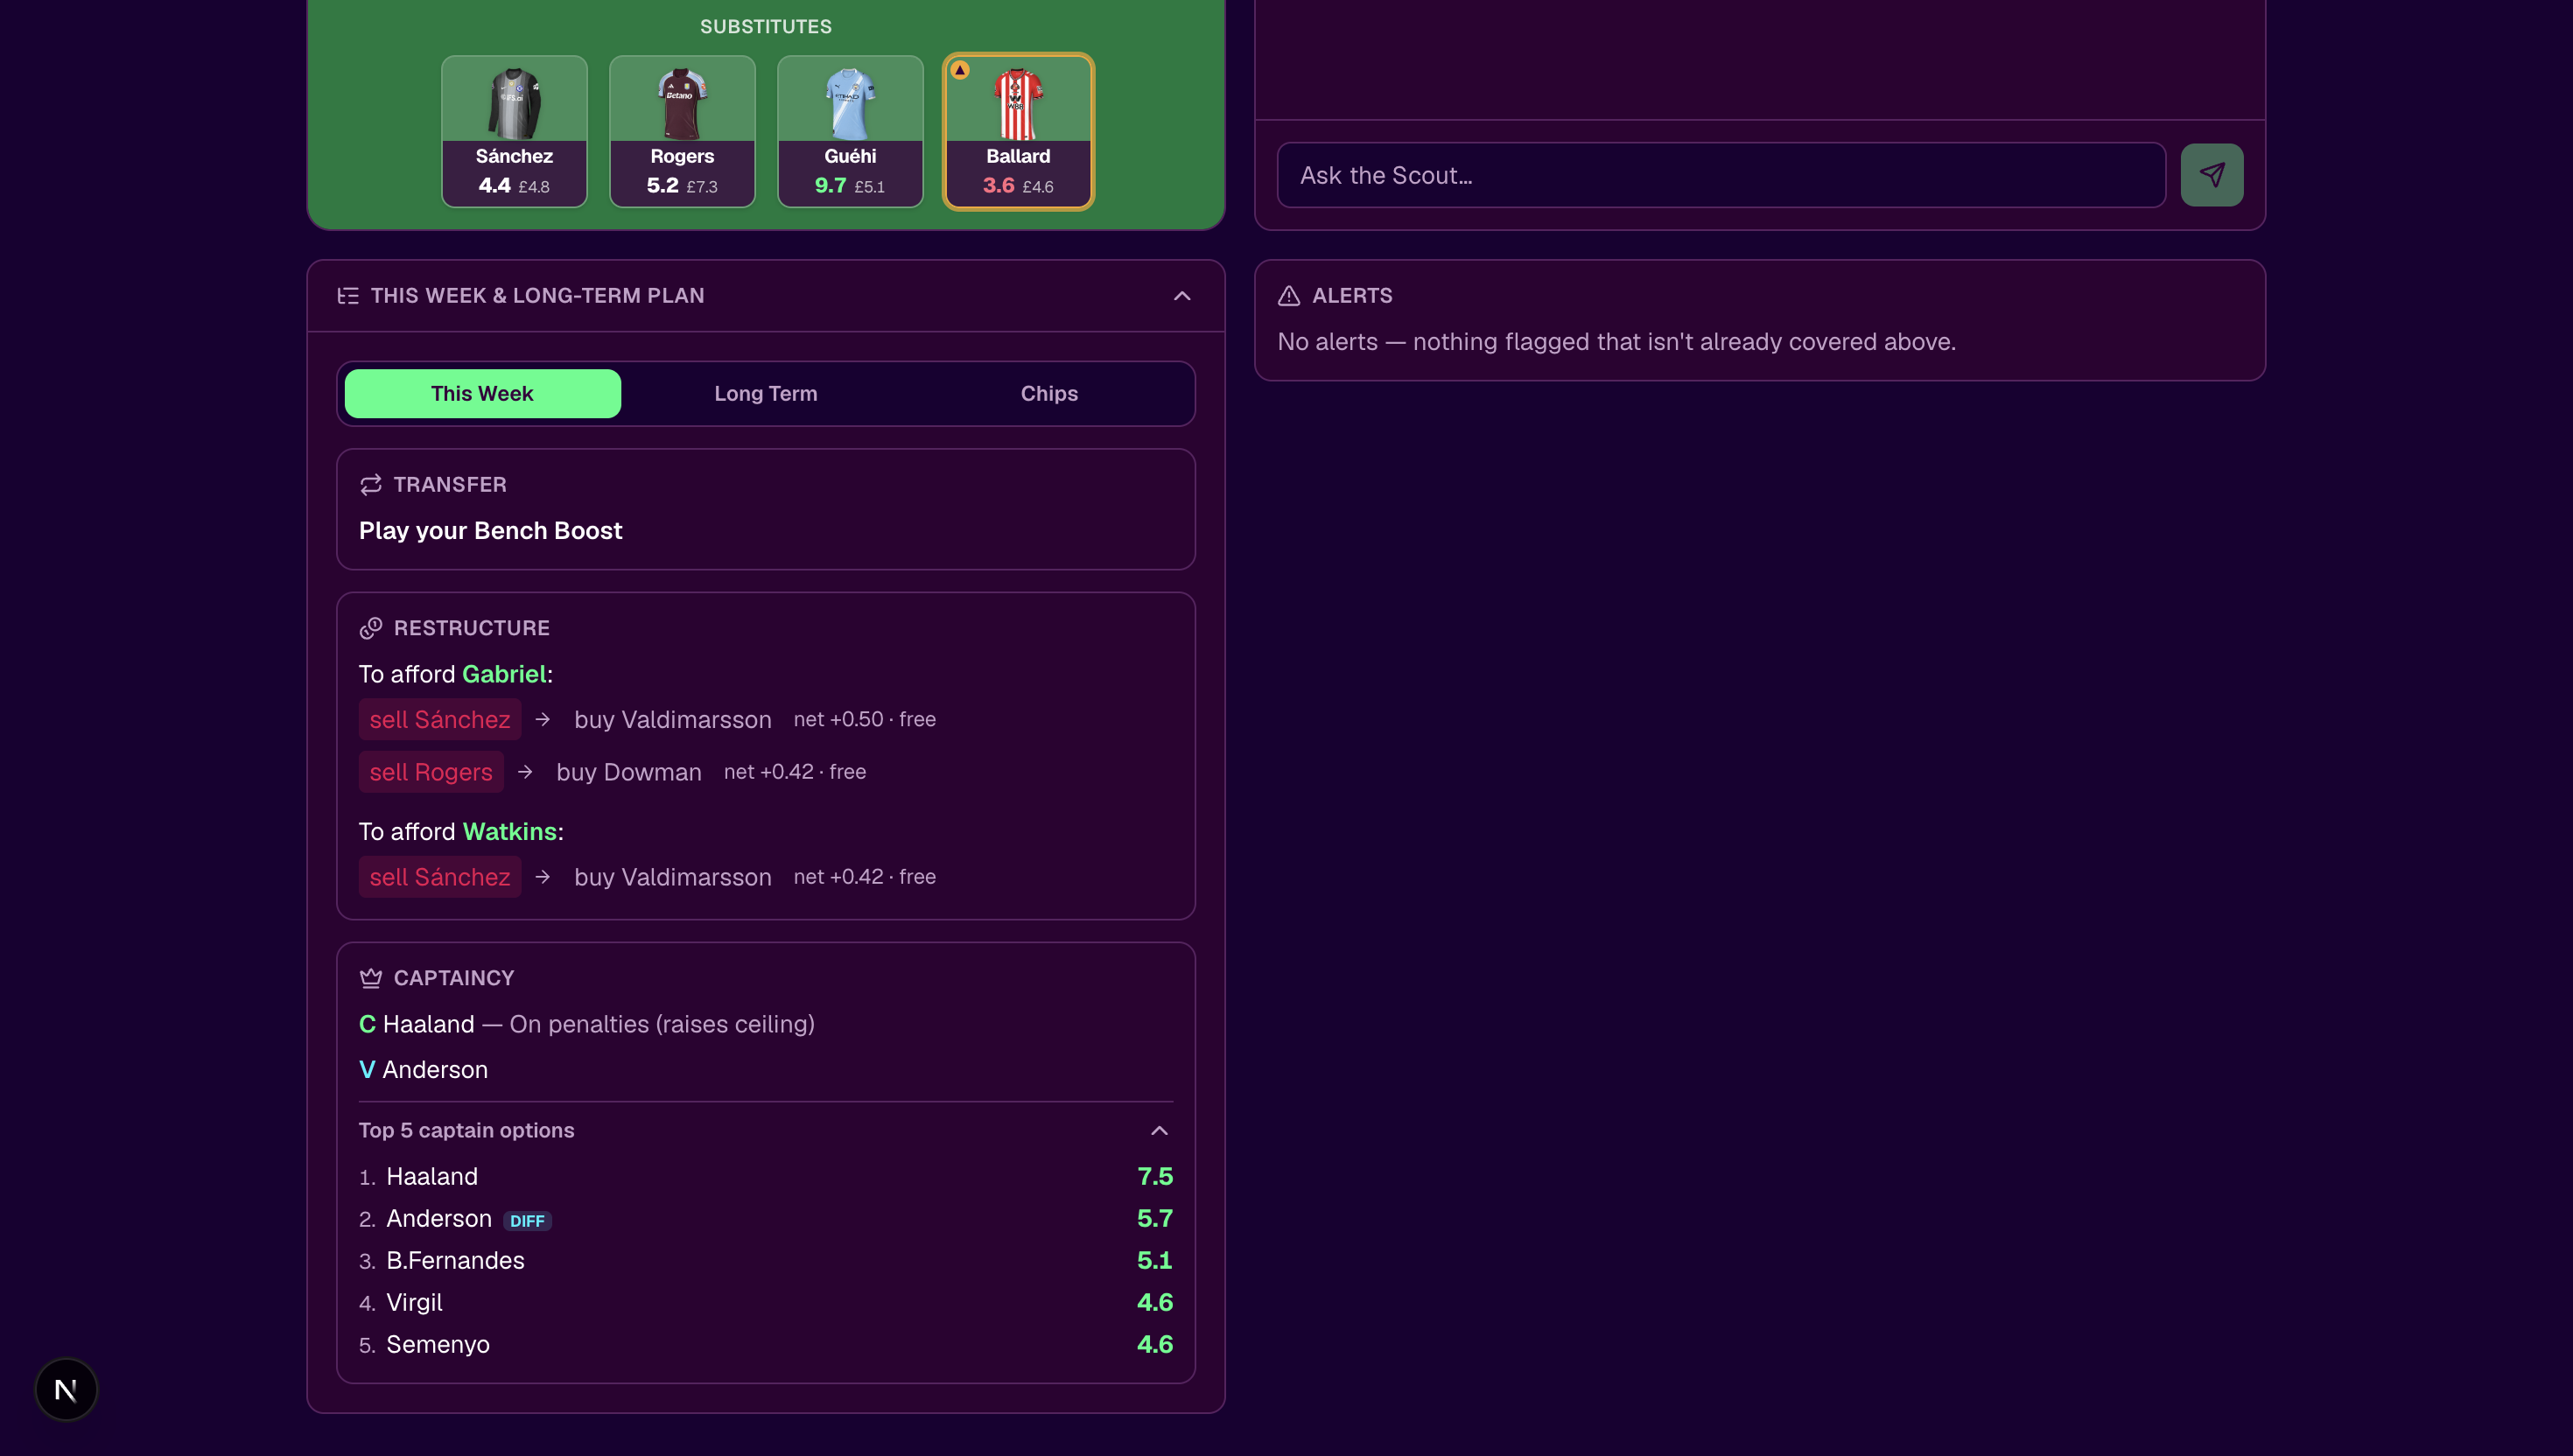
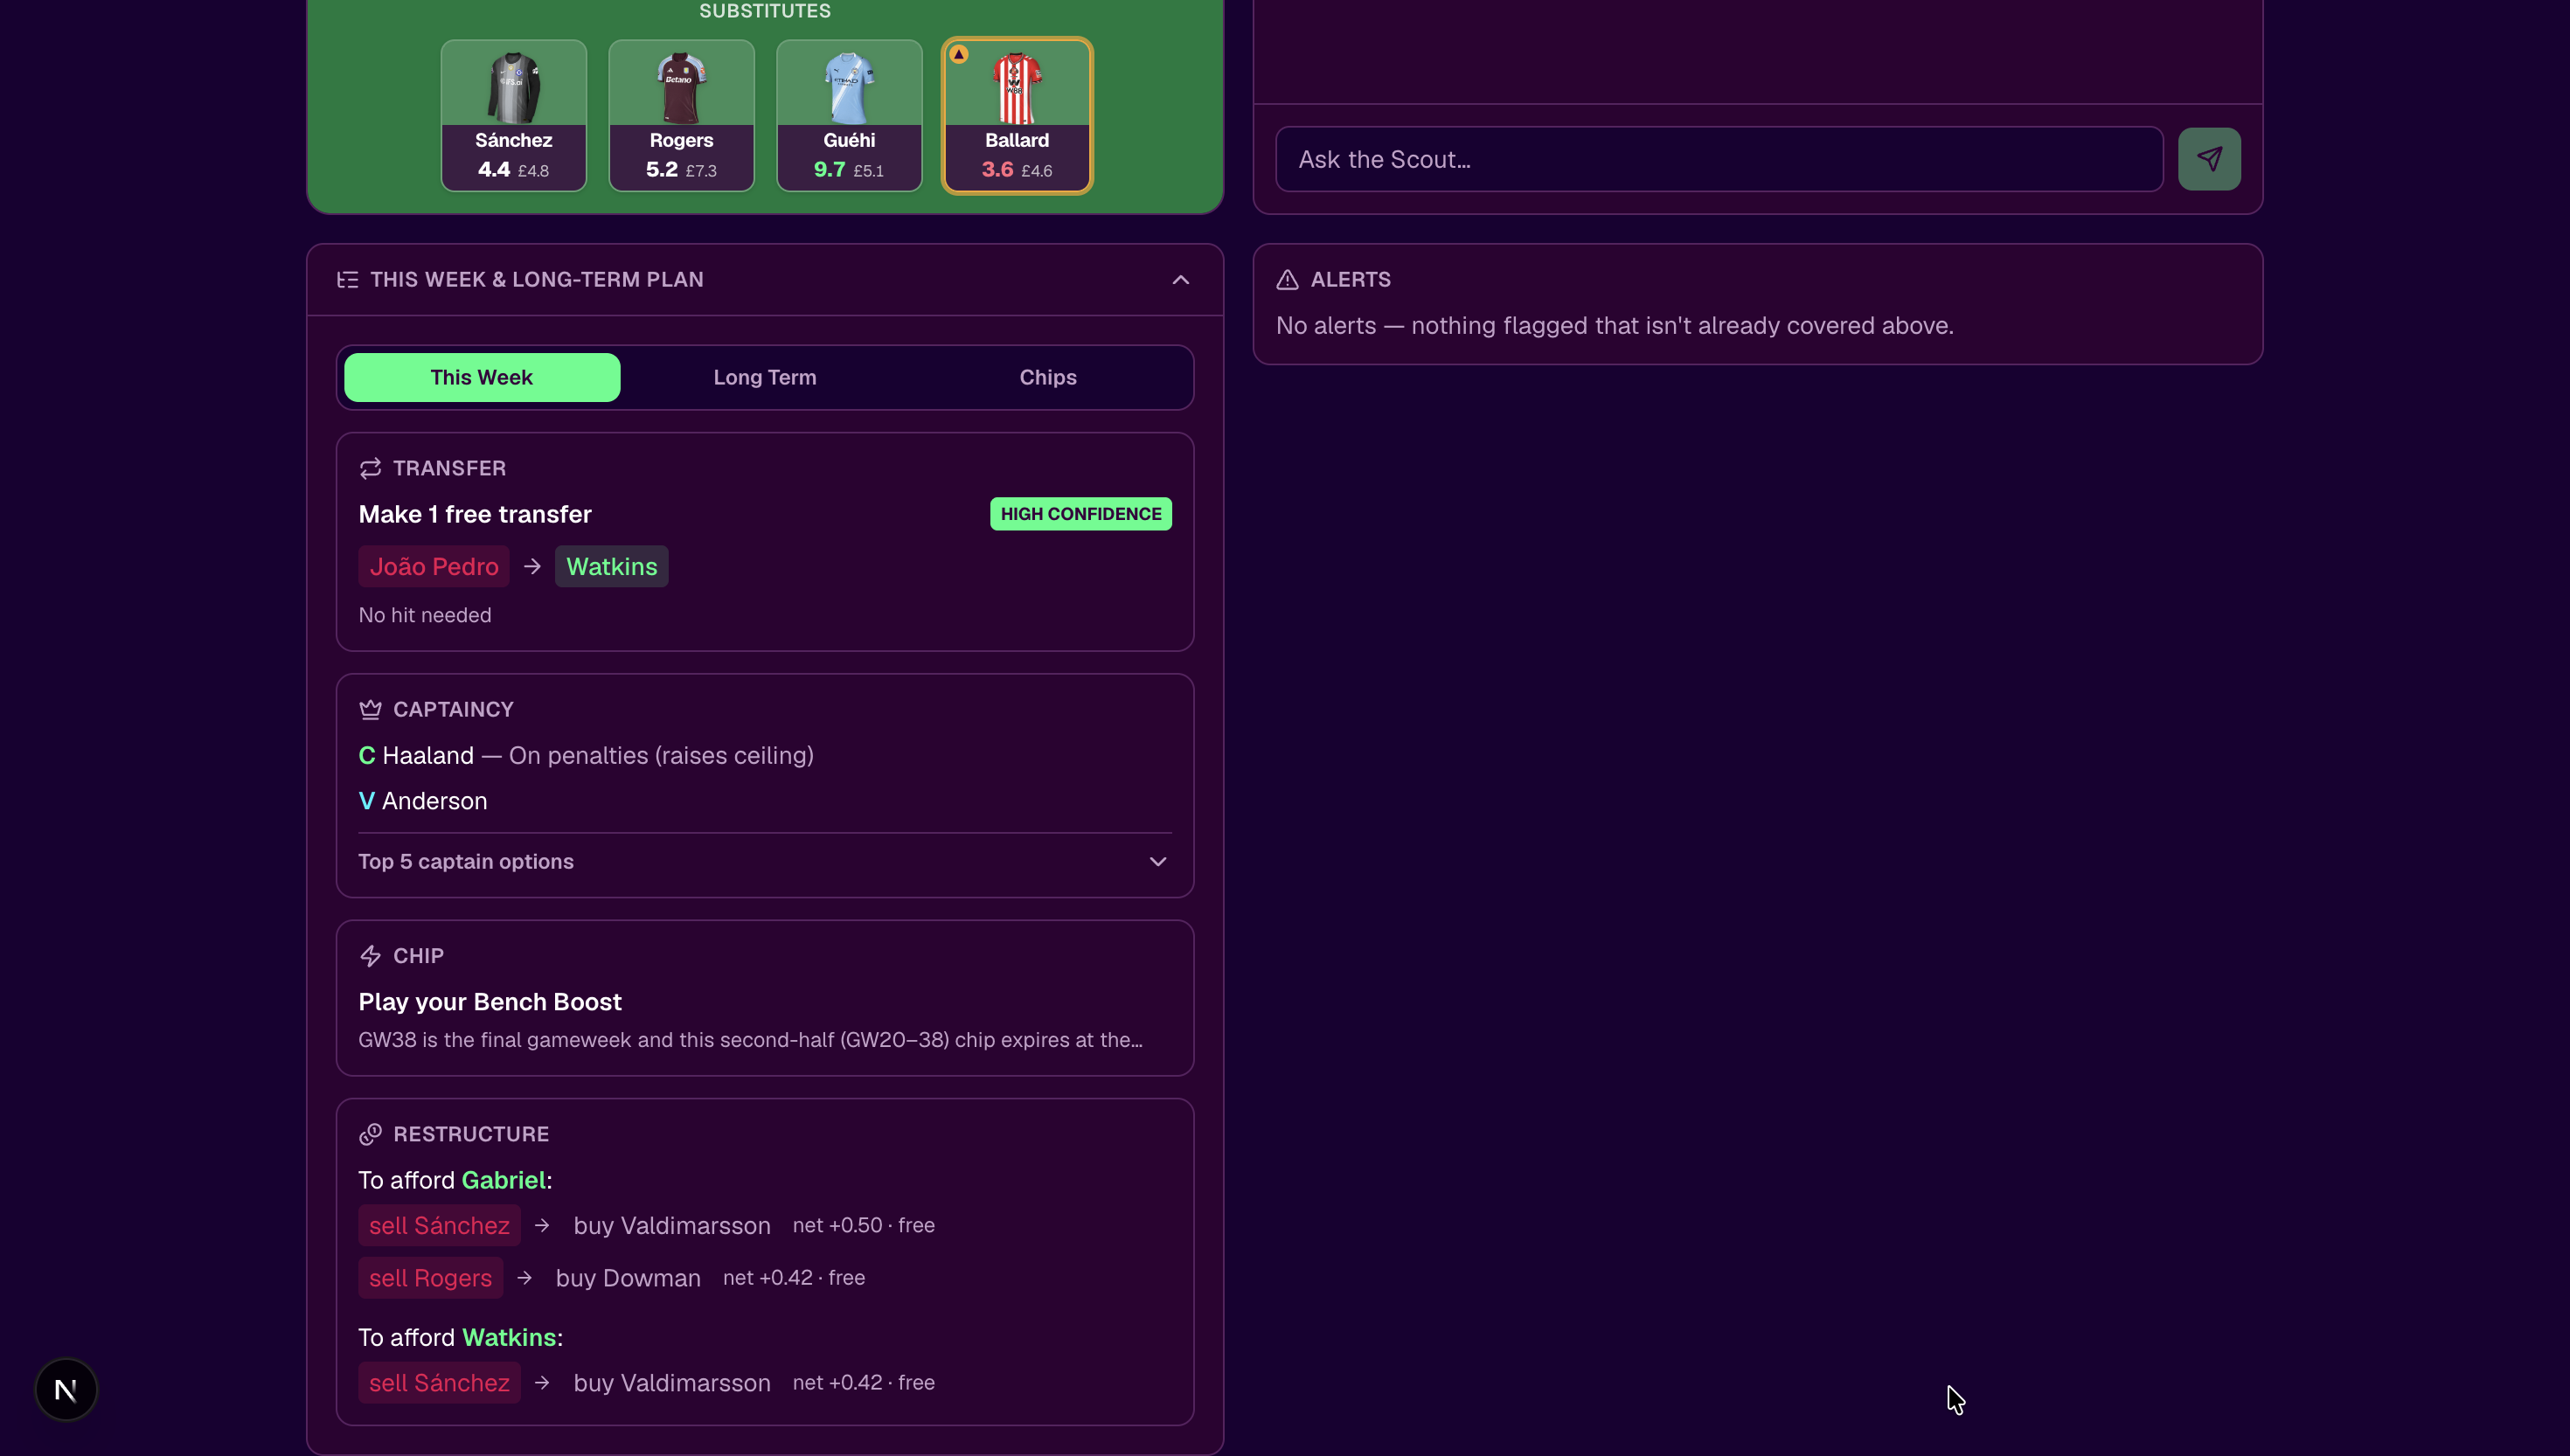
docs: refresh README + ARCHITECTURE + screenshots for this version
The docs predated the actionability/grounding work merged on this branch.

- README: "What it does" now leads with the glanceable verdict bar and the
  player detail dialog + FPL/Premier-League handoffs; This Week lists its four
  sections; architecture mermaid shows the verdict bar and knowledge feeding
  the chat; Screenshots refreshed.
- ARCHITECTURE: documents the /api/player/[id] cache-warm route; the Scout chat
  is described as knowledge-grounded (chips.md + rank-strategy.md) with the
  committed chip plan authoritative over the principles; Knowledge & grounding
  table updated.
- Screenshots: re-captured hero (verdict bar) + this-week (four sections), added
  player-dialog; dropped the redundant standalone opening-brief shot.

Also: rotating "Scout is analyzing your squad…" brief placeholders in the chat
loading state (AskTheScout), replacing the single "Thinking…".

diff --git a/components/panel/AskTheScout.tsx b/components/panel/AskTheScout.tsx
@@ -19,6 +19,34 @@ const TOOL_LABELS: Record<string, string> = {
   simulate_captain: "Simulating captaincy…",
 };
 
+// Rotating placeholders while the Scout is thinking — the opening brief gets
+// squad-flavoured copy; a follow-up reply gets generic working copy.
+const BRIEF_PHRASES = [
+  "Scout is analyzing your squad…",
+  "Reviewing your fixtures…",
+  "Weighing your transfer options…",
+  "Sizing up the captaincy call…",
+  "Preparing your weekly brief…",
+];
+const REPLY_PHRASES = ["Thinking…", "Consulting your squad…", "Crunching the numbers…"];
+
+function ThinkingIndicator({ phrases }: { phrases: string[] }) {
+  const [i, setI] = useState(0);
+  useEffect(() => {
+    const id = setInterval(() => setI((n) => n + 1), 2200);
+    return () => clearInterval(id);
+  }, []);
+  const idx = i % phrases.length; // guard against a phrase-list swap (brief → reply)
+  return (
+    <div className="flex items-center gap-1.5 px-1 text-xs text-muted-foreground">
+      <Loader2 className="size-3 animate-spin" />
+      <span key={idx} className="animate-in fade-in duration-700">
+        {phrases[idx]}
+      </span>
+    </div>
+  );
+}
+
 export function AskTheScout({
   teamId,
   freeTransfers,
@@ -189,10 +217,9 @@ export function AskTheScout({
               <Bubble role="assistant" text={streamingText} streaming />
             ) : (
               !activeTool && (
-                <div className="flex items-center gap-1.5 px-1 text-xs text-muted-foreground">
-                  <Loader2 className="size-3 animate-spin" />
-                  Thinking…
-                </div>
+                <ThinkingIndicator
+                  phrases={messages.length === 0 ? BRIEF_PHRASES : REPLY_PHRASES}
+                />
               )
             )}
           </div>

diff --git a/openspec/changes/archive/2026-06-23-docs-refresh-actionability/design.md b/openspec/changes/archive/2026-06-23-docs-refresh-actionability/design.md
@@ -1,0 +1,43 @@
+## Context
+
+The docs were last refreshed for the "conversation-first" version (commit `6a12587`). Since then this branch added: the verdict bar (`VerdictBar`), the player detail dialog (`PlayerDialog` + `/api/player/[id]`), the actionability handoffs (`FPL_TRANSFERS_URL`, `plPlayerUrl`), knowledge-grounded chat (`expertKnowledgeBlock` in the scout system prompt), the chip-verdict authority clause, the restructured This Week tab (Transfer · Captaincy · Chip · Restructure), the chip+transfer coexist fix, and rotating brief placeholders. The docs describe none of these.
+
+## Goals / Non-Goals
+
+**Goals:**
+- README and ARCHITECTURE accurately describe the current surfaces and the chat's knowledge grounding.
+- Screenshots show the current UI, captured as one coherent story (same manager/GW as the existing set).
+- Links/anchors stay valid; the docs build (mermaid renders, no broken image refs).
+
+**Non-Goals:**
+- Rewriting `EVALUATION.md` (model/backtest content is unchanged).
+- Re-recording the demo `.mov` (heavier; note as a follow-up).
+- Documenting internal-only changes that don't alter the product story (e.g. test factories).
+
+## Decisions
+
+**1. Keep the existing doc structure; edit in place.**
+Add to the existing sections rather than reorganising — README "What it does" gains verdict-bar / dialog / actionability bullets; ARCHITECTURE's request-flow mermaid gains the `/api/player/[id]` node and a verdict-bar mention; the "Agentic Scout chat" + "Knowledge & grounding" sections are corrected. *Alternative:* a new "What's new" section — rejected; the docs should read as the current state, not a changelog.
+
+**2. Correct the chat-grounding description precisely.**
+The current text says the chat is "grounded in the committed chip plan and your held chips." Update to: also grounded in the curated knowledge base (`chips.md`, `rank-strategy.md`) via `loadKnowledge`, with the committed chip plan **authoritative over** those principles for the chip decision (the chip-verdict authority clause). Update the "Knowledge & grounding" table's *Feeds* column so chip + rank knowledge also feed **the chat**.
+
+**3. Re-capture screenshots on the GW38 demo manager.**
+Match the existing convention (`docs/images/README.md`: "all captured on the same manager (GW38) so the set reads as one coherent story"). Re-shoot: `fpl-advisor-hero.png` (now includes the verdict bar), `fpl-advisor-this-week.png` (now the four sections), and add `fpl-advisor-player-dialog.png` (token → dialog). The chat shots can stay unless the panel chrome changed materially. Capture via the running app + the preview screenshot tool, then update the `docs/images/README.md` inventory table.
+
+**4. Verdict-bar restyle and rotating placeholders are minor.**
+Mention the verdict bar's role (glanceable, above the fold, with the deep link); the rotating brief placeholders are a small loading affordance — a one-line mention at most, no screenshot (transient).
+
+## Risks / Trade-offs
+
+- **Screenshots drift again next change.** → Accept; this change brings them current. The inventory note already explains the capture convention for future refreshes.
+- **Image diffs are large binaries.** → Only re-shoot the genuinely-stale frames (hero, this-week, + the new dialog), not the whole set.
+- **Mermaid edits can break rendering.** → Verify the diagrams still parse (GitHub mermaid) before finishing.
+
+## Migration Plan
+
+Docs + images only; no code, no behaviour, nothing to roll back beyond reverting the files. Land it in the same branch before the PR so the merged history's docs match the merged code.
+
+## Open Questions
+
+- Whether to add a dedicated "Actionability" subsection to the README or fold it into "What it does" — leaning fold-in (one product story). Resolve in build; no spec impact.

diff --git a/openspec/changes/archive/2026-06-23-docs-refresh-actionability/specs/current-documentation/spec.md b/openspec/changes/archive/2026-06-23-docs-refresh-actionability/specs/current-documentation/spec.md
@@ -1,0 +1,42 @@
+## ADDED Requirements
+
+### Requirement: README reflects the shipped surfaces
+
+The root `README.md` SHALL describe the user-facing surfaces shipped on this branch: the glanceable verdict bar (the week's decision above the fold, with the "Open FPL Transfers" handoff), the player detail dialog (opened from a pitch token or a This-Week transfer name, with the "View on Premier League" link), and the restructured This Week tab. The "Architecture at a glance" diagram SHALL include the verdict bar and show the curated knowledge feeding the chat.
+
+#### Scenario: Verdict bar and dialog are documented
+
+- **WHEN** a reader reads the README "What it does" section
+- **THEN** it mentions the glanceable verdict bar, the player detail dialog, and the FPL / Premier-League handoffs
+
+### Requirement: ARCHITECTURE reflects the current pipeline and grounding
+
+`docs/ARCHITECTURE.md` SHALL document the `/api/player/[id]` cache-warm player-detail route, and SHALL describe the agentic Scout chat as grounded in the curated knowledge base (`chips.md`, `rank-strategy.md`) with the committed chip plan authoritative over those principles for the chip decision. The "Knowledge & grounding" table SHALL show the chip and rank knowledge feeding the chat (not only the syntheses).
+
+#### Scenario: Chat grounding is described correctly
+
+- **WHEN** a reader reads the ARCHITECTURE "LLM layer" / "Knowledge & grounding" sections
+- **THEN** the chat is described as knowledge-grounded, with the committed chip plan taking precedence over the principles for the chip verdict
+
+#### Scenario: Player-detail route is documented
+
+- **WHEN** a reader reads the ARCHITECTURE request-flow section
+- **THEN** the `/api/player/[id]` route (reusing the warm bootstrap + element-summary caches) is described
+
+### Requirement: Screenshots reflect the current UI
+
+The screenshot set under `docs/images/` SHALL reflect the current UI — the hero shows the verdict bar, the This Week shot shows the Transfer · Captaincy · Chip · Restructure sections, and a player-dialog screenshot exists — captured on the same demo manager as the rest of the set. The `docs/images/README.md` inventory SHALL be updated to match.
+
+#### Scenario: Current screenshots and inventory
+
+- **WHEN** the README screenshots are viewed and `docs/images/README.md` is read
+- **THEN** the images show the current UI (verdict bar, the four This-Week sections, the player dialog) and the inventory table lists them accurately
+
+### Requirement: Docs remain valid
+
+The updated docs SHALL keep valid internal links/anchors, render their mermaid diagrams, and reference only image files that exist.
+
+#### Scenario: No broken references
+
+- **WHEN** the docs are rendered (e.g. on GitHub)
+- **THEN** internal links resolve, the mermaid diagrams parse, and every referenced image exists

diff --git a/openspec/changes/archive/2026-06-23-docs-refresh-actionability/proposal.md b/openspec/changes/archive/2026-06-23-docs-refresh-actionability/proposal.md
@@ -1,0 +1,25 @@
+## Why
+
+This branch shipped a wave of user-facing work — the glanceable verdict bar, the player detail dialog, the "Open FPL Transfers" / "View on Premier League" handoffs, knowledge-grounded chat, the chip-verdict authority fix, the restructured This Week tab, and rotating brief placeholders — but the docs and screenshots still describe the *previous* version. The README's "What it does" omits the verdict bar, the dialog, and the actionability handoffs; `ARCHITECTURE.md` predates the `/api/player/[id]` route and still says the chat is grounded only in the committed chip plan + held chips (it is now also grounded in the curated knowledge base, with the committed plan authoritative over it); and every screenshot predates the verdict bar, the dialog, and the new This Week sections. A merged branch whose docs lie about the product is worse than no docs.
+
+## What Changes
+
+- **README** — add the verdict bar, the player detail dialog, and the actionability handoffs to "What it does"; refresh the "Architecture at a glance" mermaid (verdict bar in the UI; knowledge now also feeds the chat); update the Screenshots table to the current UI.
+- **ARCHITECTURE** — add the `/api/player/[id]` cache-warm detail route to the request flow; update the "Agentic Scout chat" + "Knowledge & grounding" sections so the chat is described as knowledge-grounded (chips.md + rank-strategy.md) with the committed chip plan authoritative over the principles; note the verdict bar / dialog / deep-link surfaces.
+- **Screenshots & media inventory** — re-capture the stale shots on the same GW38 demo manager (for one coherent story): the hero (now with the verdict bar), This Week (now Transfer · Captaincy · Chip · Restructure sections), and a new player-dialog shot; update `docs/images/README.md` inventory accordingly.
+
+Out of scope: `EVALUATION.md` (model/backtest content, unchanged by this branch) and the demo `.mov` (separate, heavier re-record — note it as a follow-up, don't block on it).
+
+## Capabilities
+
+### New Capabilities
+- `current-documentation`: The README, ARCHITECTURE, and screenshot set accurately reflect the shipped feature set on this branch — the verdict bar, the player detail dialog, the FPL/Premier-League handoffs, and the knowledge-grounded chat with chip-verdict authority.
+
+### Modified Capabilities
+<!-- None — docs are not a tracked behavioural capability; this is a new documentation-accuracy capability. -->
+
+## Impact
+
+- **Docs**: `README.md` (What it does, Architecture mermaid, Screenshots), `docs/ARCHITECTURE.md` (request flow, LLM layer, Knowledge & grounding), `docs/images/README.md` (inventory).
+- **Media**: re-captured PNGs under `docs/images/` (hero, this-week, new dialog); the rotating brief placeholder is transient and not a screenshot target.
+- **Code/Deps**: none — documentation + images only. No behavioural change.

diff --git a/openspec/changes/archive/2026-06-23-docs-refresh-actionability/tasks.md b/openspec/changes/archive/2026-06-23-docs-refresh-actionability/tasks.md
@@ -1,0 +1,23 @@
+## 1. README
+
+- [x] 1.1 "What it does": add the glanceable verdict bar (above-the-fold decision + "Open FPL Transfers"), the player detail dialog (token / This-Week name → dialog, "View on Premier League"), and note the restructured This Week tab
+- [x] 1.2 "Architecture at a glance" mermaid: add the verdict bar to the UI node and show curated knowledge feeding the chat (not only the syntheses)
+- [x] 1.3 "Screenshots": update the table to the current shots (hero w/ verdict bar, This Week w/ four sections, + the new dialog shot)
+
+## 2. ARCHITECTURE
+
+- [x] 2.1 Request flow: add the `/api/player/[id]` cache-warm detail route (bootstrap + element-summary reuse); mention the verdict bar in the base-phase output
+- [x] 2.2 "Agentic Scout chat": describe it as grounded in the curated knowledge base (`chips.md`, `rank-strategy.md`) with the committed chip plan authoritative over the principles (chip-verdict authority)
+- [x] 2.3 "Knowledge & grounding" table: update the *Feeds* column so chip + rank knowledge also feed the chat
+- [x] 2.4 Add a short mention of the actionability surfaces (verdict bar, player dialog, FPL/PL deep links)
+
+## 3. Screenshots & inventory
+
+- [x] 3.1 Re-captured hero (verdict bar) + this-week (four sections) on GW38
+- [x] 3.2 Added fpl-advisor-player-dialog.png (B.Fernandes; flag-after-name); renamed the follow-up shot; dropped the redundant standalone opening-brief shot
+- [x] 3.3 Update `docs/images/README.md` inventory to list the refreshed/added images; leave the demo `.mov` re-record as a noted follow-up
+
+## 4. Verify
+
+- [x] 4.1 Internal links/anchors resolve, mermaid fences balanced; all referenced images exist EXCEPT the two awaiting your capture (`fpl-advisor-player-dialog.png`) + the always-external `demo.mov`
+- [x] 4.2 Skim the rendered README + ARCHITECTURE for accuracy against the shipped UI

diff --git a/README.md b/README.md
@@ -18,10 +18,12 @@ Enter your FPL manager ID and Pocket Scout scouts your squad: transfer recommend
 
 ## What it does
 
+- **Glanceable verdict** — one always-visible line above the fold spans the pitch and chat: *"This week: João Pedro → Watkins · Captain Haaland · Play your Bench Boost"*, with an **Open FPL Transfers** deep link at the end. Derived deterministically and shown only once the decision is final (no mid-flight captain swap).
 - **Pitch & ratings** — every squad player scored 0–10 by a position-aware composite model (anchored on FPL's expected points, corrected by form, fixtures, value, and underlying stats).
-- **Ask The Scout (the hero)** — the conversation is the primary surface: the Scout opens with a proactive, deadline-aware brief, then answers "what if?" via real tool calls (`simulate_transfer`, `score_player`, …), grounded in your committed plan so it never invents numbers or contradicts the panels.
+- **Ask The Scout (the hero)** — the conversation is the primary surface: the Scout opens with a proactive, deadline-aware brief, then answers "what if?" via real tool calls (`simulate_transfer`, `score_player`, …), grounded in your committed plan **and the curated knowledge base**, so it never invents numbers or contradicts the panels.
+- **Act on it** — close the last mile: click any pitch player or transfer name for a **detail dialog** (age, nationality, form, last-week minutes/points, expected next points) with a **View on Premier League** link; the verdict bar hands you off to the FPL transfers screen.
 - **Breakdown** — a collapsible drawer with three tabs:
-  - *This Week* — a transfer recommendation gated on *projected points* (it holds rather than churning), plus EO-aware captaincy.
+  - *This Week* — clear sections in order: **Transfer · Captaincy · Chip · Restructure** — a transfer recommendation gated on *projected points* (it holds rather than churning), EO-aware captaincy, and the chip call in its own section (so a Bench Boost never hides your free transfer).
   - *Long Term* — a multi-gameweek horizon.
   - *Chips* — an LLM-orchestrated chip plan (play now / hold / sequenced windows), grounded in chip principles and the deterministic candidate windows.
 
@@ -42,7 +44,8 @@ flowchart LR
   FPL[(FPL API)] --> BASE
   NEWS[(Team news)] -.-> OPT
   KB[(Knowledge:<br/>chips · rank)] -.-> SYN
-  PITCH --> UI[Conversation-first UI<br/>pitch · chat · breakdown]
+  KB -.-> CHAT
+  PITCH --> UI[Conversation-first UI<br/>verdict bar · pitch · chat · breakdown · player dialog]
   SYN --> UI
   CHAT[Ask The Scout<br/>proactive brief + tool-use loop] --> UI
 ```
@@ -61,11 +64,11 @@ It's built **eval-first**: a point-in-time backtest harness over 10 seasons of F
 
 ## Screenshots
 
-| Ask The Scout — the proactive opening brief | Ask The Scout — a tool-grounded follow-up |
+| Ask The Scout — a tool-grounded follow-up | Player detail dialog — click any player to inspect |
 |---|---|
-| ![Opening brief](docs/images/fpl-advisor-chat.png) | ![Follow-up answer](docs/images/fpl-advisor-chat-continued.png) |
+| ![Follow-up answer](docs/images/fpl-advisor-chat-continued.png) | ![Player detail dialog](docs/images/fpl-advisor-player-dialog.png) |
 
-| This Week — the move, restructure & captaincy | Chips — the orchestrated chip plan |
+| This Week — Transfer · Captaincy · Chip · Restructure | Chips — the orchestrated chip plan |
 |---|---|
 | ![This Week breakdown](docs/images/fpl-advisor-this-week.png) | ![Chips plan](docs/images/fpl-advisor-chips.png) |
 

diff --git a/docs/images/README.md b/docs/images/README.md
@@ -7,14 +7,14 @@ as one coherent story.
 
 | File | Used as | Shows |
 |---|---|---|
-| `fpl-advisor-hero.png` | README hero | The landing: pitch (left) + Ask The Scout hero with the proactive brief and starter chips (right). |
-| `fpl-advisor-chat.png` | Screenshots — opening brief | The chat panel with the Scout's proactive, deadline-aware opening brief + the contextual starter chips. |
-| `fpl-advisor-chat-continued.png` | Screenshots — tool-grounded answer | The chat after a follow-up ("Why Haaland over Anderson?") — a crisp, answer-first reply citing real numbers. |
-| `fpl-advisor-this-week.png` | Screenshots — This Week | Breakdown on **This Week**: the recommended move, restructure chains, and EO-aware captaincy. |
+| `fpl-advisor-hero.png` | README hero | The landing: the **glanceable verdict bar** across the top (transfer · captain · chip + Open FPL Transfers), pitch (left) + Ask The Scout hero with the proactive brief and starter chips (right). |
+| `fpl-advisor-chat-continued.png` | Screenshots — tool-grounded answer | The chat after a follow-up ("Why Haaland over Anderson?") — a crisp, answer-first reply citing real numbers (verdict bar visible). The standalone opening-brief shot was dropped — the hero already shows the brief. |
+| `fpl-advisor-this-week.png` | Screenshots — This Week | Breakdown on **This Week**, now four sections in order: **Transfer · Captaincy · Chip · Restructure** (the chip call in its own section). |
+| `fpl-advisor-player-dialog.png` | Screenshots — player dialog | The player detail dialog (opened from a pitch token / This-Week name): age, nationality + flag, form, last-week mins/pts, exp. next pts, and the **View on Premier League** button. |
 | `fpl-advisor-chips.png` | Screenshots — Chips | Breakdown on **Chips**: chips-left row + reasons list, play-now highlighted (no gameweek axis). |
 | `fpl-advisor-long-term.png` | spare | Breakdown on **Long Term** (final-GW empty state here — swap in a mid-season shot for a populated horizon). |
 | `fpl-advisor-login.png` | spare | The entry screen (manager-ID form). |
-| `fpl-advisor-demo.mov` | demo video — see note below | Flow: squad load → pitch → proactive brief → breakdown tabs → Ask The Scout. |
+| `fpl-advisor-demo.mov` | demo video — see note below | Flow: squad load → pitch → proactive brief → breakdown tabs → Ask The Scout. **Stale for this version** (predates the verdict bar / dialog) — a re-record is a noted follow-up. |
 
 ## Demo video — inline player on GitHub
 

diff --git a/docs/ARCHITECTURE.md b/docs/ARCHITECTURE.md
@@ -24,8 +24,9 @@ flowchart TB
   SYN --> INSOUT[[This Week · Long Term · Chips]]
 ```
 
-- **Base phase** (`/api/plan/base`) — deterministic only. Builds the squad analysis and composite scores; returns the pitch. Fast, no LLM.
+- **Base phase** (`/api/plan/base`) — deterministic only. Builds the squad analysis and composite scores; returns the pitch. Fast, no LLM. The client renders the **glanceable verdict bar** above the fold from the merged plan once insights land (so the captain/transfer are final, never swapped mid-flight), with an **Open FPL Transfers** deep link that hands off to the FPL transfers screen.
 - **Insights phase** (`/api/plan/insights`) — runs the optimizer + captain logic, then the LLM syntheses. Cached per `manager:gw:freeTransfers:horizon`.
+- **Player detail** (`/api/player/[id]`) — a lightweight, on-demand route behind the **player dialog** (opened from a pitch token or a This-Week transfer name). It reuses the warm bootstrap + element-summary caches the insights phase already populated, so for an analyzed player it issues **no new FPL request**; returns name, age, nationality, form, last-week minutes/points, and expected next points, plus the `opta_code` that builds the **View on Premier League** link.
 
 ## The deterministic engine
 
@@ -55,15 +56,15 @@ total = squash( Σ wᵢ · signalᵢ  +  trendAdj + llmAdj − suspensionPenalty
 - **Format-safe** — several return structured JSON that the UI renders; the persona explicitly defers to each task's output format.
 - **Prompt-cached** — `cache_control` marks the stable system / agent prefixes so repeated prefixes (notably the agentic chat's multi-round loop) bill at the cache-read rate.
 
-**Agentic Scout chat** (`lib/scout/`) — Ask The Scout is the **hero conversation**: it opens proactively with a deadline-aware brief, then runs a stateless tool-use loop where the model calls tools (`get_plan`, `score_player`, `simulate_transfer`, `simulate_captain`) to fetch *real* numbers rather than hallucinate them, streaming the reply token-by-token. It's grounded in the committed chip plan and your held chips, so its chip advice never contradicts the panels.
+**Agentic Scout chat** (`lib/scout/`) — Ask The Scout is the **hero conversation**: it opens proactively with a deadline-aware brief, then runs a stateless tool-use loop where the model calls tools (`get_plan`, `score_player`, `simulate_transfer`, `simulate_captain`) to fetch *real* numbers rather than hallucinate them, streaming the reply token-by-token. It's grounded in the committed chip plan, your held chips, **and the curated knowledge base** (`chips.md` + `rank-strategy.md`, injected via `loadKnowledge`) — with the committed chip plan held **authoritative over** those principles for the chip decision, so the chat reasons with expert principles but never issues a competing chip verdict to the panels.
 
 ### Knowledge & grounding
 
 | Layer | Source | Type | Feeds |
 |---|---|---|---|
 | Rotation / injury | predicted-lineup news (fetched, LLM-extracted → structured) | dynamic data | `LlmContextSignals` → composite + captain |
-| Chip timing | `lib/knowledge/chips.md` | static principles | the **chip orchestrator** → chip plan |
-| Rank / EO | `lib/knowledge/rank-strategy.md` | static principles | captain + transfer narratives |
+| Chip timing | `lib/knowledge/chips.md` | static principles | the **chip orchestrator** → chip plan · the **Scout chat** |
+| Rank / EO | `lib/knowledge/rank-strategy.md` | static principles | captain + transfer narratives · the **Scout chat** |
 | Persona | `lib/llm/persona.ts` | identity | every reasoning call + the chat |
 
 Static knowledge files are read at runtime, so they're explicitly copied into the Docker image (see [Deployment](#deployment)).